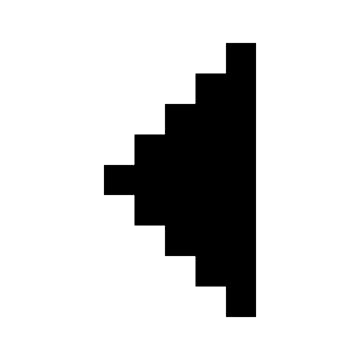
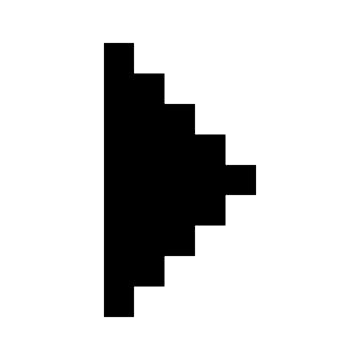
Fixing Waypoint little by little

diff --git a/Ghosts Of Incarnia/Assets/WaypointIndicator.cs b/Ghosts Of Incarnia/Assets/WaypointIndicator.cs
@@ -1,37 +1,28 @@
 using UnityEngine;
-
 public class WaypointIndicator : MonoBehaviour
 {
-    public Transform player;
-    public Transform spawnPoint;
+    public Vector3 targetPosition;
+    private RectTransform wayPointRectTransform;
     void Start(){
         if(AssetWarmup.Instance!=null &&AssetWarmup.Instance.centerObject!=null){
-            spawnPoint = AssetWarmup.Instance.centerObject.transform;
+            targetPosition = AssetWarmup.Instance.centerObject.transform.position;
         }
+        wayPointRectTransform = transform.Find("Pointer").GetComponent<RectTransform>();
     }
-
     void Update()
     {
-        if (player != null && spawnPoint != null)
+        Vector3 toPostion = targetPosition;
+        Vector3 fromPostion = Camera.main.transform.position;
+        fromPostion.z = 0;
+        Vector3 dir = (toPostion - fromPostion).normalized;
+        float angle = Mathf.Atan2(dir.y, dir.x) * Mathf.Rad2Deg;
+        if (angle < 0)
         {
-            // Calculate the direction from the player to the spawn point
-            Vector3 directionToSpawn = (spawnPoint.position - player.position).normalized;
-
-            // Calculate the rotation to face the spawn point
-            float angle = Mathf.Atan2(directionToSpawn.y, directionToSpawn.x) * Mathf.Rad2Deg;
-
-            // Apply the rotation to the waypoint indicator
-            transform.rotation = Quaternion.Euler(0f, 0f, angle);
-
-            // Flip the image horizontally
-            if (directionToSpawn.x < 0)
-            {
-                transform.localScale = new Vector3(1, -1, 1); // Flip along the y-axis
-            }
-            else
-            {
-                transform.localScale = new Vector3(-1, 1, 1);
-            }
+            angle += 360;
         }
+        wayPointRectTransform.localEulerAngles = new Vector3 (0, 0, angle);
+        Vector3 targetPostionScreenPoint = Camera.main.WorldToScreenPoint(targetPosition);
+        bool isOffScreen = targetPostionScreenPoint.x<=0||targetPostionScreenPoint.x>=Screen.width||targetPostionScreenPoint.y<=0||targetPostionScreenPoint.y>Screen.height;
+        Debug.Log(isOffScreen + " " + targetPostionScreenPoint);
     }
 }
